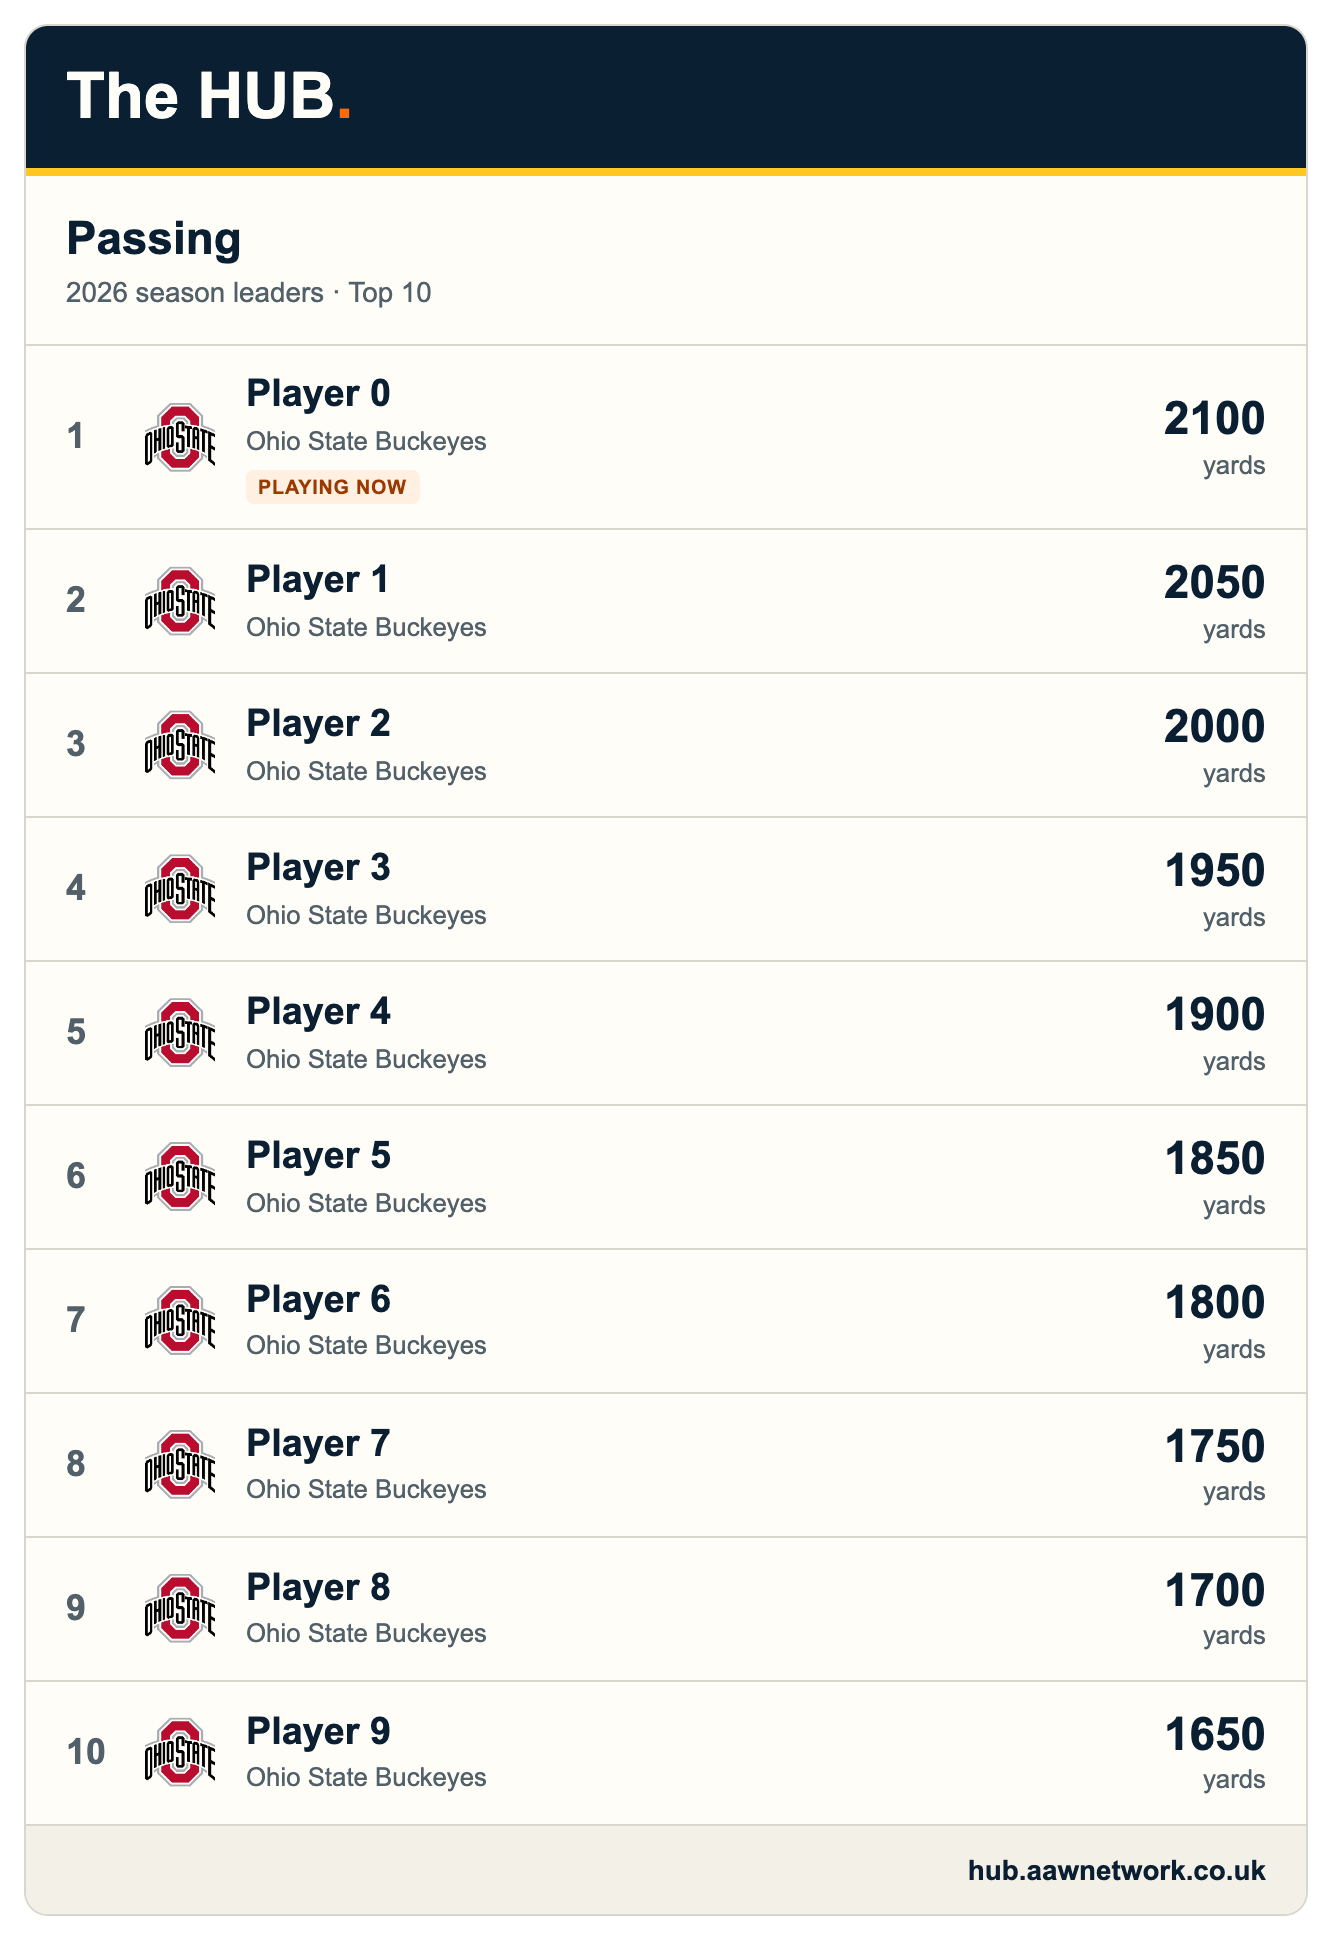
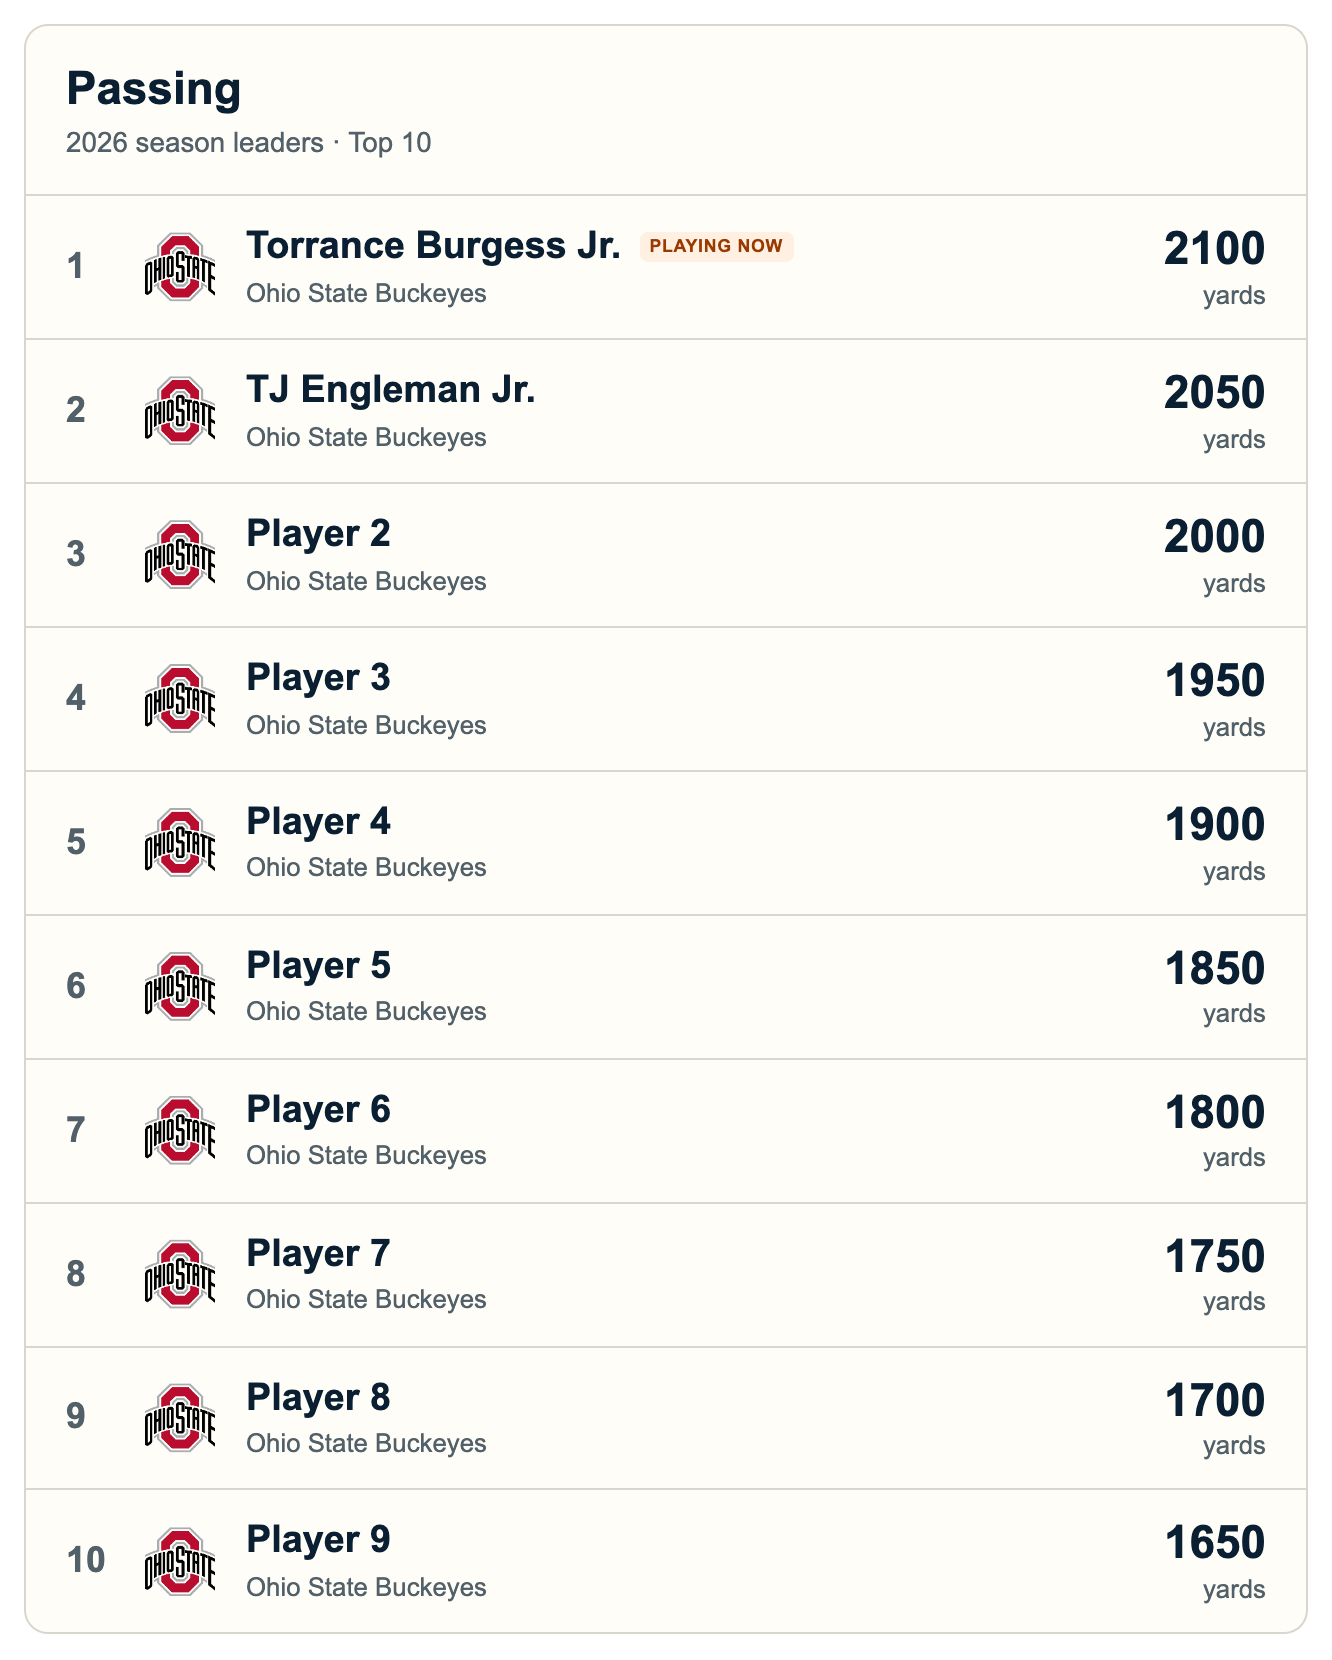
exports

diff --git a/app/features/exports/compact-stats.ts b/app/features/exports/compact-stats.ts
@@ -38,10 +38,6 @@ export async function compactStats(source: HTMLElement, clone: HTMLElement) {
   const element = (tag: string, text: string, css: string) => {
     const node = document.createElement(tag); node.textContent = text; node.style.cssText = css; return node;
   };
-  const brand = element("div", "", "padding:18px 20px;background:#0b1f33;color:#fffdf7;border-bottom:4px solid #ffc720;");
-  const wordmark = element("div", "The HUB", "font-size:32px;font-weight:800;line-height:1.1;");
-  wordmark.append(element("span", ".", "color:#ff6b00;"));
-  brand.append(wordmark); clone.append(brand);
   const header = element("div", "", "padding:18px 20px;border-bottom:1px solid #d8d6cd;");
   header.append(element("h2", title, "margin:0;font-size:23px;font-weight:700;"),
     element("p", `${subtitle} · Top 10`, "margin:5px 0 0;color:#52606a;font-size:14px;font-weight:400;"));
@@ -61,10 +57,11 @@ export async function compactStats(source: HTMLElement, clone: HTMLElement) {
       item.append(image);
     } else item.append(element("div", "", "width:38px;flex-shrink:0;"));
     const name = element("div", "", "flex:1;min-width:0;");
-    name.append(element("div", player, "font-size:19px;font-weight:700;line-height:1.3;"),
-      element("div", team, "font-size:13px;font-weight:400;color:#52606a;line-height:1.4;margin-top:2px;"));
-    if (playing) name.append(element("div", "PLAYING NOW", "display:inline-block;margin-top:5px;padding:3px 6px;border-radius:4px;background:#fff0e2;color:#9b3a00;font-size:10px;font-weight:800;letter-spacing:.04em;"));
-    if (!individual) name.children[1]?.remove();
+    const nameLine = element("div", "", "display:flex;align-items:center;gap:8px;min-width:0;line-height:1.3;");
+    nameLine.append(element("span", player, "font-size:19px;font-weight:700;white-space:nowrap;min-width:0;overflow:hidden;text-overflow:ellipsis;"));
+    if (playing) nameLine.append(element("span", "PLAYING NOW", "flex-shrink:0;white-space:nowrap;padding:2px 5px;border-radius:4px;background:#fff0e2;color:#9b3a00;font-size:9px;font-weight:800;line-height:1.2;letter-spacing:.04em;"));
+    name.append(nameLine);
+    if (individual) name.append(element("div", team, "font-size:13px;font-weight:400;color:#52606a;line-height:1.4;margin-top:2px;"));
     const value = element("div", "", "text-align:right;flex-shrink:0;margin-left:8px;");
     const match = stat.match(/^([\d,.+−-]+)\s*(.*)$/);
     value.append(element("div", match?.[1] ?? stat, "font-size:23px;font-weight:800;line-height:1.25;"));
@@ -72,5 +69,4 @@ export async function compactStats(source: HTMLElement, clone: HTMLElement) {
     item.append(name, value); clone.append(item);
   }
   (clone.lastElementChild as HTMLElement).style.borderBottom = "none";
-  clone.append(element("div", "hub.aawnetwork.co.uk", "padding:14px 20px;background:#f3f0e7;border-top:1px solid #d8d6cd;text-align:right;color:#0b1f33;font-size:14px;font-weight:700;"));
 }

diff --git a/verification/live-season-and-stats-exports.md b/verification/live-season-and-stats-exports.md
@@ -1,4 +1,4 @@
-# Live season statistics and branded stat exports
+# Live season statistics and stat-export colours
 
 Implemented in the local `AAW Football Hub` repository on 17 October 2026.
 
@@ -15,7 +15,7 @@ The compact export override rebuilt individual tables with a hardcoded navy surf
 - Player identity requires a unique school and normalized exact athlete name; ambiguous or absent identities/cutoffs retain published values. Published season leaderboard pages are fetched completely, for both players and teams.
 - Team cumulative offense, scoring averages, yardage-defense averages, sacks and turnover margin use their corresponding box-score inputs. Scoring averages use exact published points and games rather than reconstructing totals from rounded averages. Rushing/passing defense now read the provider's YPG field instead of labeling cumulative yards as YPG.
 - The full current NCAA FBS school list was checked against ESPN. Explicit aliases cover Army West Point, Miami (FL), and the other verified abbreviated school names.
-- Compact individual/team exports use the current cream/navy palette, yellow accent, `The HUB`, `hub.aawnetwork.co.uk`, light-surface logo variants, and the source table's orange `PLAYING NOW` indicator. The live table remains untouched; compact output remains top ten. Both CFB and NFL use this shared presentation.
+- Compact individual/team exports use the current cream/navy palette and light-surface logo variants. The orange `PLAYING NOW` indicator sits beside the player name on the same line, without increasing row height. No wordmark, URL footer or yellow stripe is added. The live table remains untouched; compact output remains top ten. Both CFB and NFL use this shared presentation.
 
 ## Verification
 
@@ -23,7 +23,7 @@ Regression tests cover live refresh scheduling, cancellation, no duplicate addit
 
 An actual-source check compared Julian Sayin's fetched NCAA passing total of 1,772 (through 16 October) with his fetched ESPN game box score of 80: the merged value was 1,852. This records the fetched snapshots, not a claim about his final game total.
 
-Actual Chrome PNG encoding passed all eight combinations of CFB/NFL, weekly/season and individual/team. Tests inspected decoded image pixels for the live badge, cream surface, top-ten limit, branding and preservation of the source table. The weekly/season PNG files in this folder are synthetic layout fixtures; they do not represent actual player rankings.
+Actual Chrome PNG encoding passed all eight combinations of CFB/NFL, weekly/season and individual/team. Tests inspected decoded image pixels for the live badge, cream surface, top-ten limit, equal row heights, inline badge positioning, absence of added wordmarks/URLs/yellow rules, and preservation of the source table. The weekly/season PNG files in this folder are synthetic layout fixtures; they do not represent actual player rankings.
 
 Changed source files: `app/api/player-stats/route.ts`, `app/api/season-stats/route.ts`, `app/cfb/page.tsx`, `app/features/exports/compact-stats.ts`, `app/features/stats/StatsLeaderboardTable.tsx`, `app/lib/cfb-helpers.ts`, `app/lib/team-logos.ts`, and new `app/lib/cfb-live-season.ts`. Tests and supporting fixtures accompany the changes.
 
